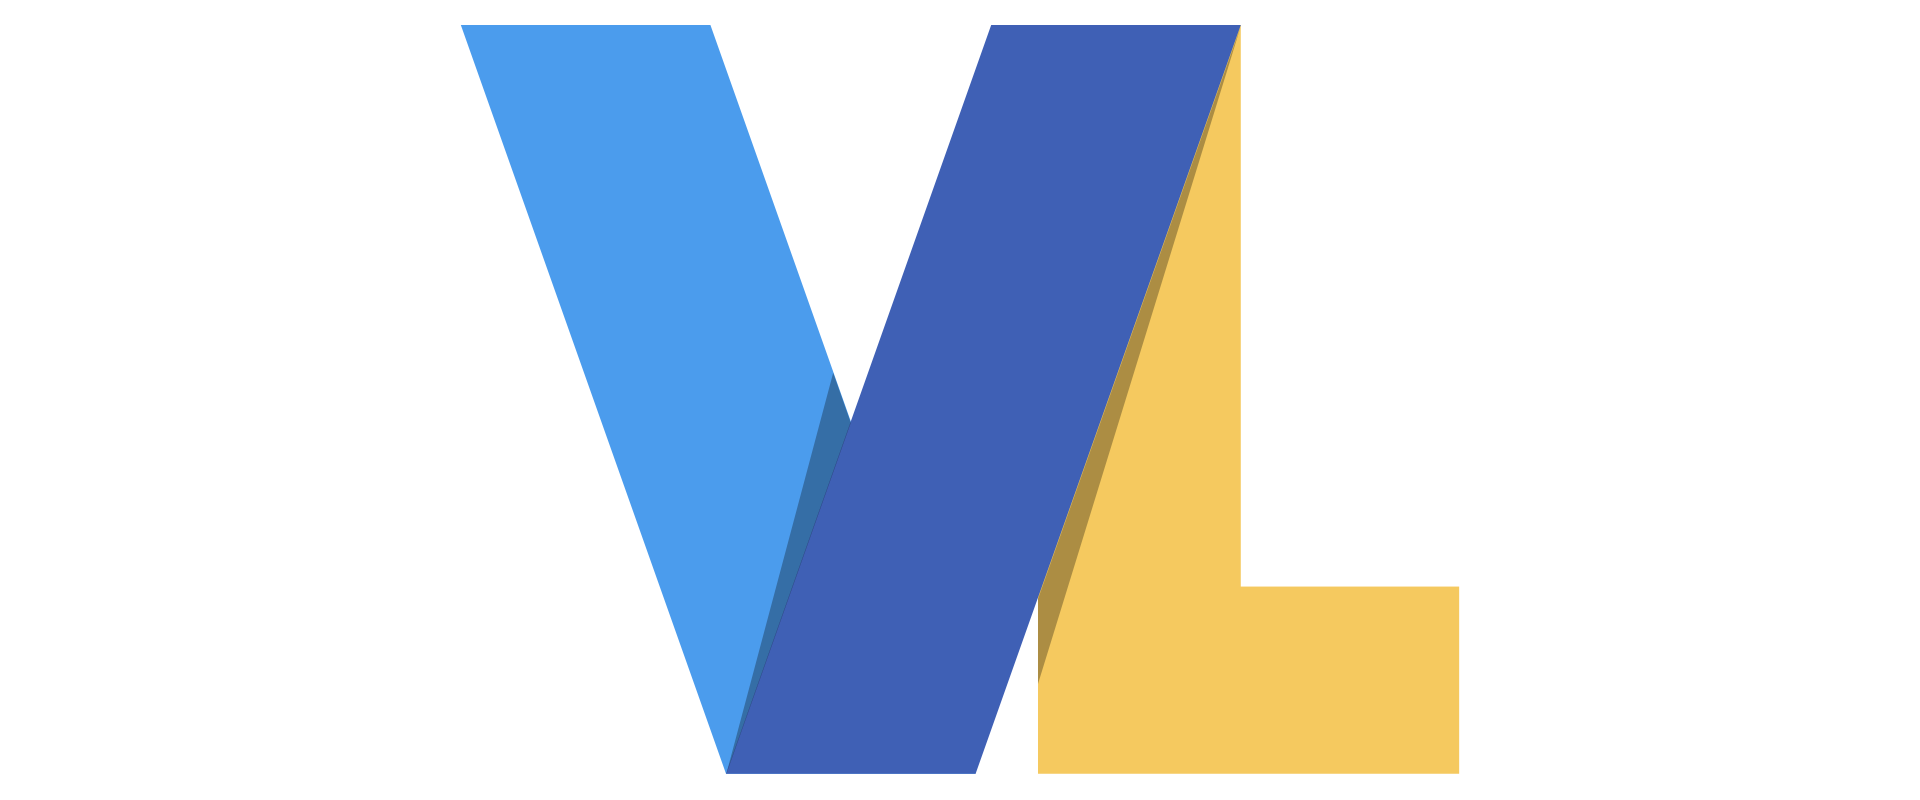
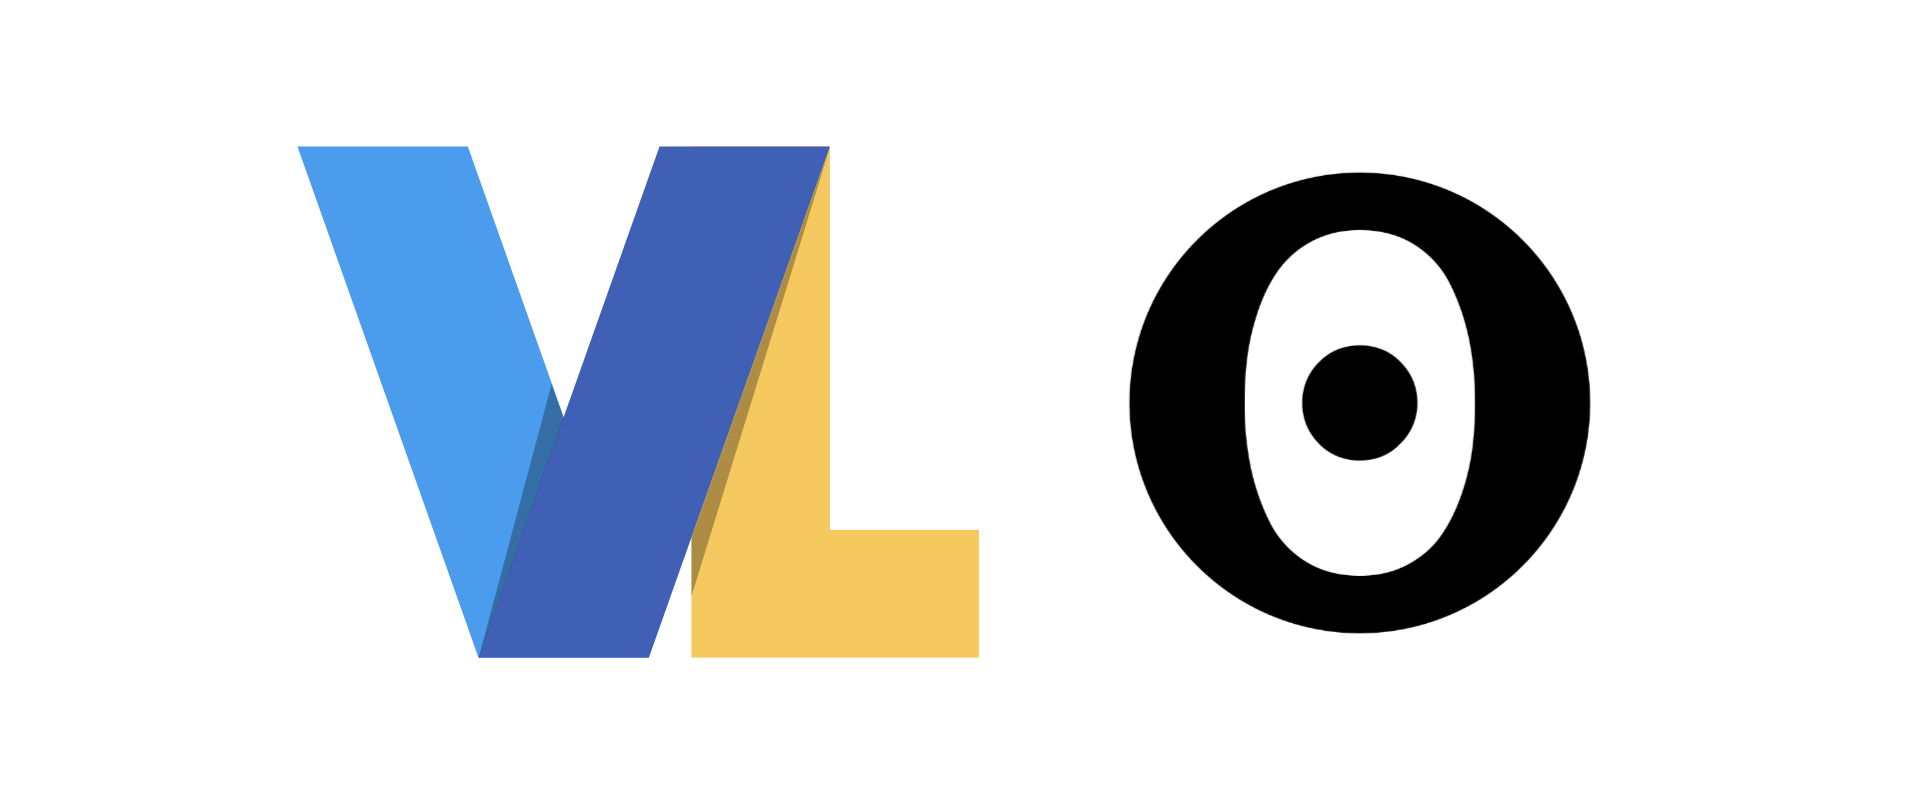
postchanges

diff --git a/src/content/10.inappreciationofvegalite.md b/src/content/10.inappreciationofvegalite.md
@@ -1,17 +1,21 @@
 ---
-title: In appreciation of Vega Lite
-description: A quick framework that might help you, help others ask questions.
+title: In appreciation of Vega Lite and Observable
+description: Notes on my appreciation of Vega Lite for charting and Observable as the place to do it.
 date: 2021-02-04
-path: /in-appreciation-of-vegalite
+path: /in-appreciation-of-vegalite-and-observable
 featuredImage: ./images/vegalite.png
-featuredImageAlt: "The logo of vega lite presented as a banner"
+featuredImageAlt: "The logos of vega lite and observable presented as a banner"
 tags: ["data","technology","short"]
-author: with thanks to the creators of Vega-Lite
+author: with thanks to the creators of Vega-Lite and Observable
 ---
 
-I'm a big fan of Vega-Lite.
+I'm officially a big fan of Vega-Lite and Observable.
 
-As a quick background it's a tool
+As a quick background Observable
+
+Vega lite is
+
+> My analogy of this is to imagine data as cookie dough, the
 
 https://vega.github.io/vega-lite/
 
@@ -23,4 +27,4 @@ I've been mainly using it in Observable
 
 ### Interactivity
 
-### Transformations / filtering
+### Transformations

diff --git a/src/content/1.musicandproductivity.md b/src/content/1.musicandproductivity.md
@@ -10,11 +10,15 @@ author: With thanks to the creators of each one
 
 I've noticed that I reach out to a set of playlists and websites as an accompaniment to doing things and being generally productive.
 
-I suspect they might specifically only work for me but you may also find them useful.
+I suspect they might specifically only work for me, but you may also find them useful.
 
 ### General focus
 Some nice repetitive loops that help in most tasks.
 <iframe src="https://open.spotify.com/embed/playlist/74sUjcvpGfdOvCHvgzNEDO" width="300" height="380" frameborder="0" allowtransparency="true" allow="encrypted-media"></iframe>
+
+<iframe src="https://open.spotify.com/embed/playlist/6YydFkbopnBXccbMIXi9Cg" width="300" height="380" frameborder="0" allowtransparency="true" allow="encrypted-media"></iframe>
+
+<iframe src="https://open.spotify.com/embed/playlist/0vvXsWCC9xrXsKd4FyS8kM" width="300" height="380" frameborder="0" allowtransparency="true" allow="encrypted-media"></iframe>
 
 ### Activities that need to happen fast, when in flow
 Yup folk music, the original beats.
